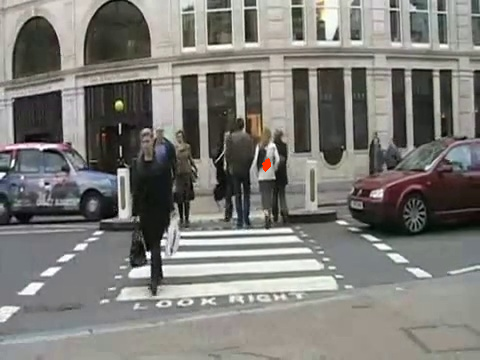
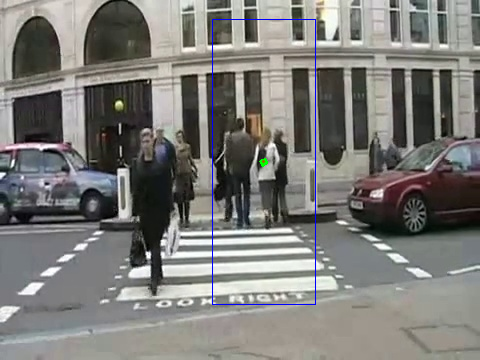
ps5 4. More tuning. Finished render method.

Changed region(s): [[0.5312, 0.4278, 0.5625, 0.4889], [0.4375, 0.825, 0.4688, 0.8556]]

diff --git a/code/PS5/ps05/ps5.py b/code/PS5/ps05/ps5.py
@@ -111,13 +111,9 @@ class ParticleFilter(object):
 
         self.template = template
         self.frame = frame
-        self.particles = (
-            self._init_particles()
-        )  # Initialize your particles array. Read the docstring.
-        self.weights = (
-            np.ones(self.num_particles) / self.num_particles
-        )  # Initialize your weights array. Read the docstring.
-        # Initialize any other components you may need when designing your filter.
+        self.particles = self._init_particles()
+        self.weights = np.ones(self.num_particles) / self.num_particles
+
 
     def _init_particles(self):
         particle_array = np.zeros((self.num_particles, 2))
@@ -159,11 +155,8 @@ class ParticleFilter(object):
         Returns:
             float: similarity value.
         """
-
-        # import pdb; pdb.set_trace()
-        mse = np.square(
-            template.astype(np.float32) - frame_cutout.astype(np.float32)
-        ).mean()
+        error = template.astype(np.float32) - frame_cutout.astype(np.float32)
+        mse = np.square(error).mean()
 
         error_metric = np.exp(-mse / (2 * self.sigma_exp ** 2))
 
@@ -283,7 +276,6 @@ class ParticleFilter(object):
             frame_in (numpy.array): copy of frame to render the state of the
                                     particle filter.
         """
-
         x_weighted_mean = 0
         y_weighted_mean = 0
 
@@ -291,13 +283,51 @@ class ParticleFilter(object):
             x_weighted_mean += self.particles[i, 0] * self.weights[i]
             y_weighted_mean += self.particles[i, 1] * self.weights[i]
 
+        x_weighted_mean = int(x_weighted_mean)
+        y_weighted_mean = int(y_weighted_mean)
+
         # Complete the rest of the code as instructed.
-        # plot particle dots
-        for particle in self.particles:
-            color = (0, 50, 255)
+        self._draw_particle_and_spread(frame_in, x_weighted_mean, y_weighted_mean)
+
+        self._draw_tracking_window(frame_in, x_weighted_mean, y_weighted_mean)
+
+    def _draw_particle_and_spread(self, frame_in, x_weighted_mean, y_weighted_mean):
+        distances = np.zeros(self.num_particles)
+
+        # draw particles
+        for i, particle in enumerate(self.particles):
+            color = (0, 255, 0)
             radius = 1
 
             cv2.circle(frame_in, tuple(particle[:2]), radius, color, -1)
+
+            x, y = particle[:2]
+            dst = np.sqrt((x - x_weighted_mean) ** 2 + (y - y_weighted_mean) ** 2)
+            distances[i] = dst
+
+        # std deviation calculations
+        radius = np.round(distances.std())
+        color = (0, 0, 255)
+
+        cv2.circle(frame_in, (x_weighted_mean, y_weighted_mean), int(radius), color, 1)
+
+    def _draw_tracking_window(self, frame_in, x_weighted_mean, y_weighted_mean):
+        # draw template box
+        h, w, _ = self.template.shape
+
+        row_start = int(y_weighted_mean - h // 2)
+        row_end = row_start + h
+
+        col_start = int(x_weighted_mean) - w // 2
+        col_end = col_start + w
+
+        cv2.rectangle(
+            frame_in,
+            (col_start, row_start),
+            (col_end, row_end),
+            (255, 0, 0),
+            1,
+        )
 
 
 class AppearanceModelPF(ParticleFilter):
@@ -376,30 +406,13 @@ class MDParticleFilter(AppearanceModelPF):
         will be inherited so you don't have to declare them again.
         """
 
-        super(MDParticleFilter, self).__init__(
-            frame, template, **kwargs
-        )  # call base class constructor
-        # If you want to add more parameters, make sure you set a default value so that
-        # your test doesn't fail the autograder because of an unknown or None value.
-        #
-        # The way to do it is:
-        # self.some_parameter_name = kwargs.get('parameter_name', default_value)
-        self.particles = self._init_particles()
+        super(MDParticleFilter, self).__init__(frame, template, **kwargs)  # call base class constructor
 
-    def _init_particles(self):
-        particle_array = np.zeros((self.num_particles, 3))
+        self.particles = np.zeros((self.num_particles, 3), dtype=np.uint16)
+        self.particles[:,:2] = self._init_particles()
+        self.particles[:, 2] = np.ones(self.num_particles) * 100
+        self.min_scale = kwargs.get('min_scale', 1)
 
-        y0 = self.template_rect["y"]
-        y1 = y0 + self.template_rect["h"]
-
-        x0 = self.template_rect["x"]
-        x1 = x0 + self.template_rect["w"]
-
-        particle_array[:, 0] = np.random.randint(x0, x1, size=self.num_particles)
-        particle_array[:, 1] = np.random.randint(y0, y1, size=self.num_particles)
-        particle_array[:, 2] = np.ones(self.num_particles) * 100
-
-        return particle_array.astype(np.uint16)
 
     def process(self, frame):
         """Processes a video frame (image) and updates the filter's state.
@@ -425,18 +438,24 @@ class MDParticleFilter(AppearanceModelPF):
         frame_gray = cv2.cvtColor(frame, cv2.COLOR_BGR2GRAY)
         template_gray = cv2.cvtColor(self.template, cv2.COLOR_BGR2GRAY)
 
+        ##############################################################################
+        self.best_template = None
+        self.best_similarity = -np.inf
+        ##############################################################################
+
+
         for i, _ in enumerate(new_particles):
 
             # Prediction
             x_d = np.random.normal(scale=self.sigma_dyn)
             y_d = np.random.normal(scale=self.sigma_dyn)
-            z_d = np.random.normal(scale=1)  # This is scale.
+            z_d = np.random.normal(scale=self.sigma_dyn)  # This is scale.
 
             x, y, z = new_particles[i]
 
             new_particles[i, 0] = x + x_d
             new_particles[i, 1] = y + y_d
-            new_particles[i, 2] = max(z + z_d, 1)
+            new_particles[i, 2] = max(z + z_d, self.min_scale*100)
             ##############################################################################
 
             # Measurement
@@ -444,9 +463,8 @@ class MDParticleFilter(AppearanceModelPF):
 
             # scale template
             scale_factor = z / 100
-            scale_factor = max(0.1, scale_factor)
-            print(type(z), type(scale_factor))
-            print(z, scale_factor)
+            # print(type(z), type(scale_factor))
+            # print(z, scale_factor)
             template_gray_scaled = cv2.resize(
                 template_gray, (0, 0), fx=scale_factor, fy=scale_factor
             )
@@ -479,30 +497,107 @@ class MDParticleFilter(AppearanceModelPF):
             #     cv2.waitKey(1)
             # print(frame_cutout.shape, template_gray_scaled.shape)
             if frame_cutout.shape != template_gray_scaled.shape:
-                error_calc = 0
-                print("Shapes don't match")
+                similarity_score = 0
+                # print("Shapes don't match")
             else:
-                error_calc = self.get_error_metric(template_gray_scaled, frame_cutout)
-                print("Shapes match.")
+                similarity_score = self.get_error_metric(template_gray_scaled, frame_cutout)
+                # print("Shapes match.")
 
-            # tmp_frame = np.copy(frame)
-            # cv2.rectangle(
-            #     tmp_frame,
-            #     (col_start, row_start),
-            #     (col_end, row_end),
-            #     (0, 0, 255),
-            #     2,
-            # )
-            # cv2.imshow('template window', tmp_frame)
-            # cv2.waitKey(0)
+            if similarity_score > self.best_similarity:
+                self.best_template = template_gray_scaled
+                self.best_particle = _
 
-            # print(error_calc)
-            #
-            new_weights[i] = error_calc
-            norm += error_calc
+            new_weights[i] = similarity_score
+            norm += similarity_score
             ##############################################################################
 
         self.particles = new_particles
         self.weights = new_weights / norm
         self.best_particle = self.particles[self.weights.argmax()]
         self.particles = self.resample_particles()
+
+        # h, w = self.best_template.shape
+        # # print('{} * {} -> {}'.format(template_gray.shape,
+        # #                              scale_factor,
+        # #                              template_gray_scaled.shape))
+        #
+        # x, y, z = self.best_particle
+        # row_start = y - h // 2
+        # row_end = row_start + h
+        #
+        # col_start = x - w // 2
+        # col_end = col_start + w
+        #
+        # tmp_frame = np.copy(frame)
+        # cv2.rectangle(
+        #     tmp_frame,
+        #     (col_start, row_start),
+        #     (col_end, row_end),
+        #     (0, 0, 255),
+        #     1,
+        # )
+        # cv2.imshow('template window', tmp_frame)
+        # cv2.waitKey(1)
+
+    # def render(self, frame_in):
+    #     super(MDParticleFilter, self).render(frame_in)
+    #
+    #     x_weighted_mean = 0
+    #     y_weighted_mean = 0
+    #     z_weighted_mean = 0
+    #
+    #     for i in range(self.num_particles):
+    #         x_weighted_mean += self.particles[i, 0] * self.weights[i]
+    #         y_weighted_mean += self.particles[i, 1] * self.weights[i]
+    #         z_weighted_mean += self.particles[i, 2] * self.weights[i]
+    #
+    #         # print(x_weighted_mean, y_weighted_mean, z_weighted_mean)
+    #
+    #     x_weighted_mean = int(x_weighted_mean)
+    #     y_weighted_mean = int(y_weighted_mean)
+    #     z_weighted_mean = z_weighted_mean/100
+    #
+    #     print(x_weighted_mean, y_weighted_mean, z_weighted_mean)
+    #
+    #     template_mean = cv2.resize(
+    #         self.template[:,:,0], (0, 0), fx=z_weighted_mean, fy=z_weighted_mean
+    #     )
+    #     h, w = template_mean.shape
+    #
+    #     row_start = y_weighted_mean - h // 2
+    #     row_end = row_start + h
+    #
+    #     col_start = x_weighted_mean - w // 2
+    #     col_end = col_start + w
+    #
+    #     cv2.rectangle(
+    #         frame_in,
+    #         (col_start, row_start),
+    #         (col_end, row_end),
+    #         (0, 0, 255),
+    #         1,
+    #     )
+
+    # def _draw_tracking_window(self, frame_in, x_weighted_mean, y_weighted_mean):
+    #
+    #     z_weighted_mean = 0
+    #
+    #     for i in range(self.num_particles):
+    #         z_weighted_mean += self.particles[i, 2] * self.weights[i]
+    #
+    #     # draw template box
+    #     h, w, _ = self.template.shape
+    #
+    #     row_start = int(y_weighted_mean - h // 2)
+    #     row_end = row_start + h
+    #
+    #     col_start = int(x_weighted_mean) - w // 2
+    #     col_end = col_start + w
+    #
+    #     cv2.rectangle(
+    #         frame_in,
+    #         (col_start, row_start),
+    #         (col_end, row_end),
+    #         (255, 0, 0),
+    #         1,
+    #     )

diff --git a/code/PS5/ps05/experiment.py b/code/PS5/ps05/experiment.py
@@ -16,9 +16,7 @@ NOISE_2 = {"x": 7.5, "y": 7.5}
 
 
 # Helper code
-def run_particle_filter(
-    filter_class, imgs_dir, template_rect, save_frames={}, **kwargs
-):
+def run_particle_filter(filter_class, imgs_dir, template_rect, save_frames={}, **kwargs):
     """Runs a particle filter on a given video and template.
 
     Create an object of type pf_class, passing in initial video frame,
@@ -319,10 +317,11 @@ def part_4():
         300: os.path.join(output_dir, "ps5-4-a-4.png"),
     }
 
-    num_particles = 500  # Define the number of particles
-    sigma_md = 20  # Define the value of sigma for the measurement exponential equation
+    num_particles = 200  # Define the number of particles
+    sigma_md = 10  # Define the value of sigma for the measurement exponential equation
     sigma_dyn = 1  # Define the value of sigma for the particles movement (dynamics)
     alpha = 0  # Set a value for alpha
+    min_scale = 0.3
 
     run_particle_filter(
         ps5.MDParticleFilter,
@@ -334,6 +333,7 @@ def part_4():
         sigma_dyn=sigma_dyn,
         template_coords=template_rect,
         alpha=alpha,
+        min_scale=min_scale
     )  # Add more if you need to
 
 
